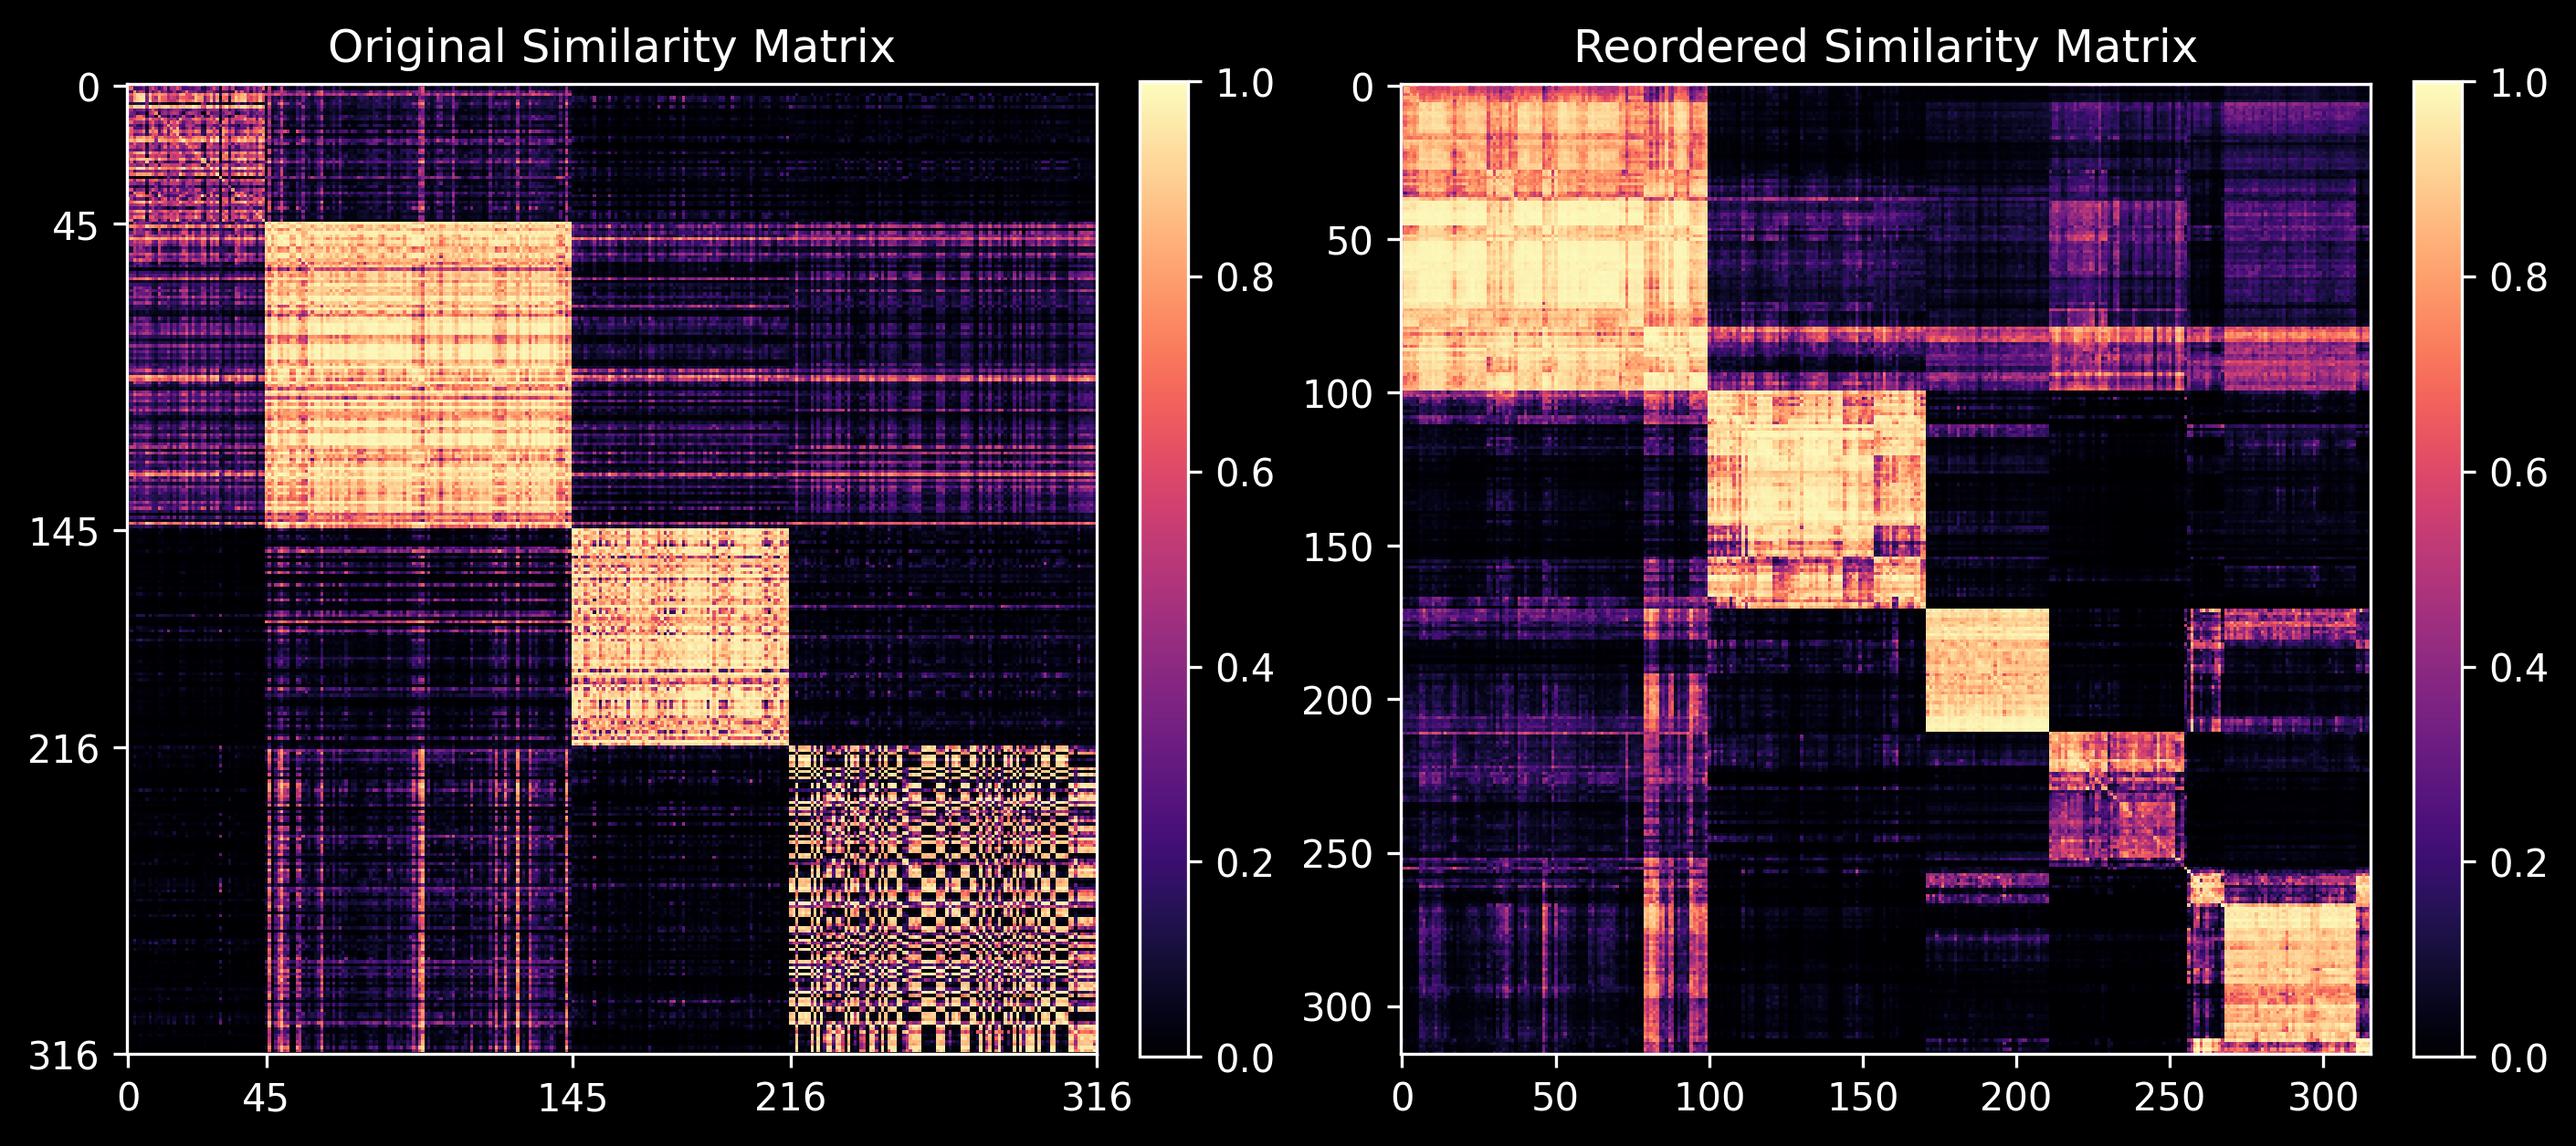
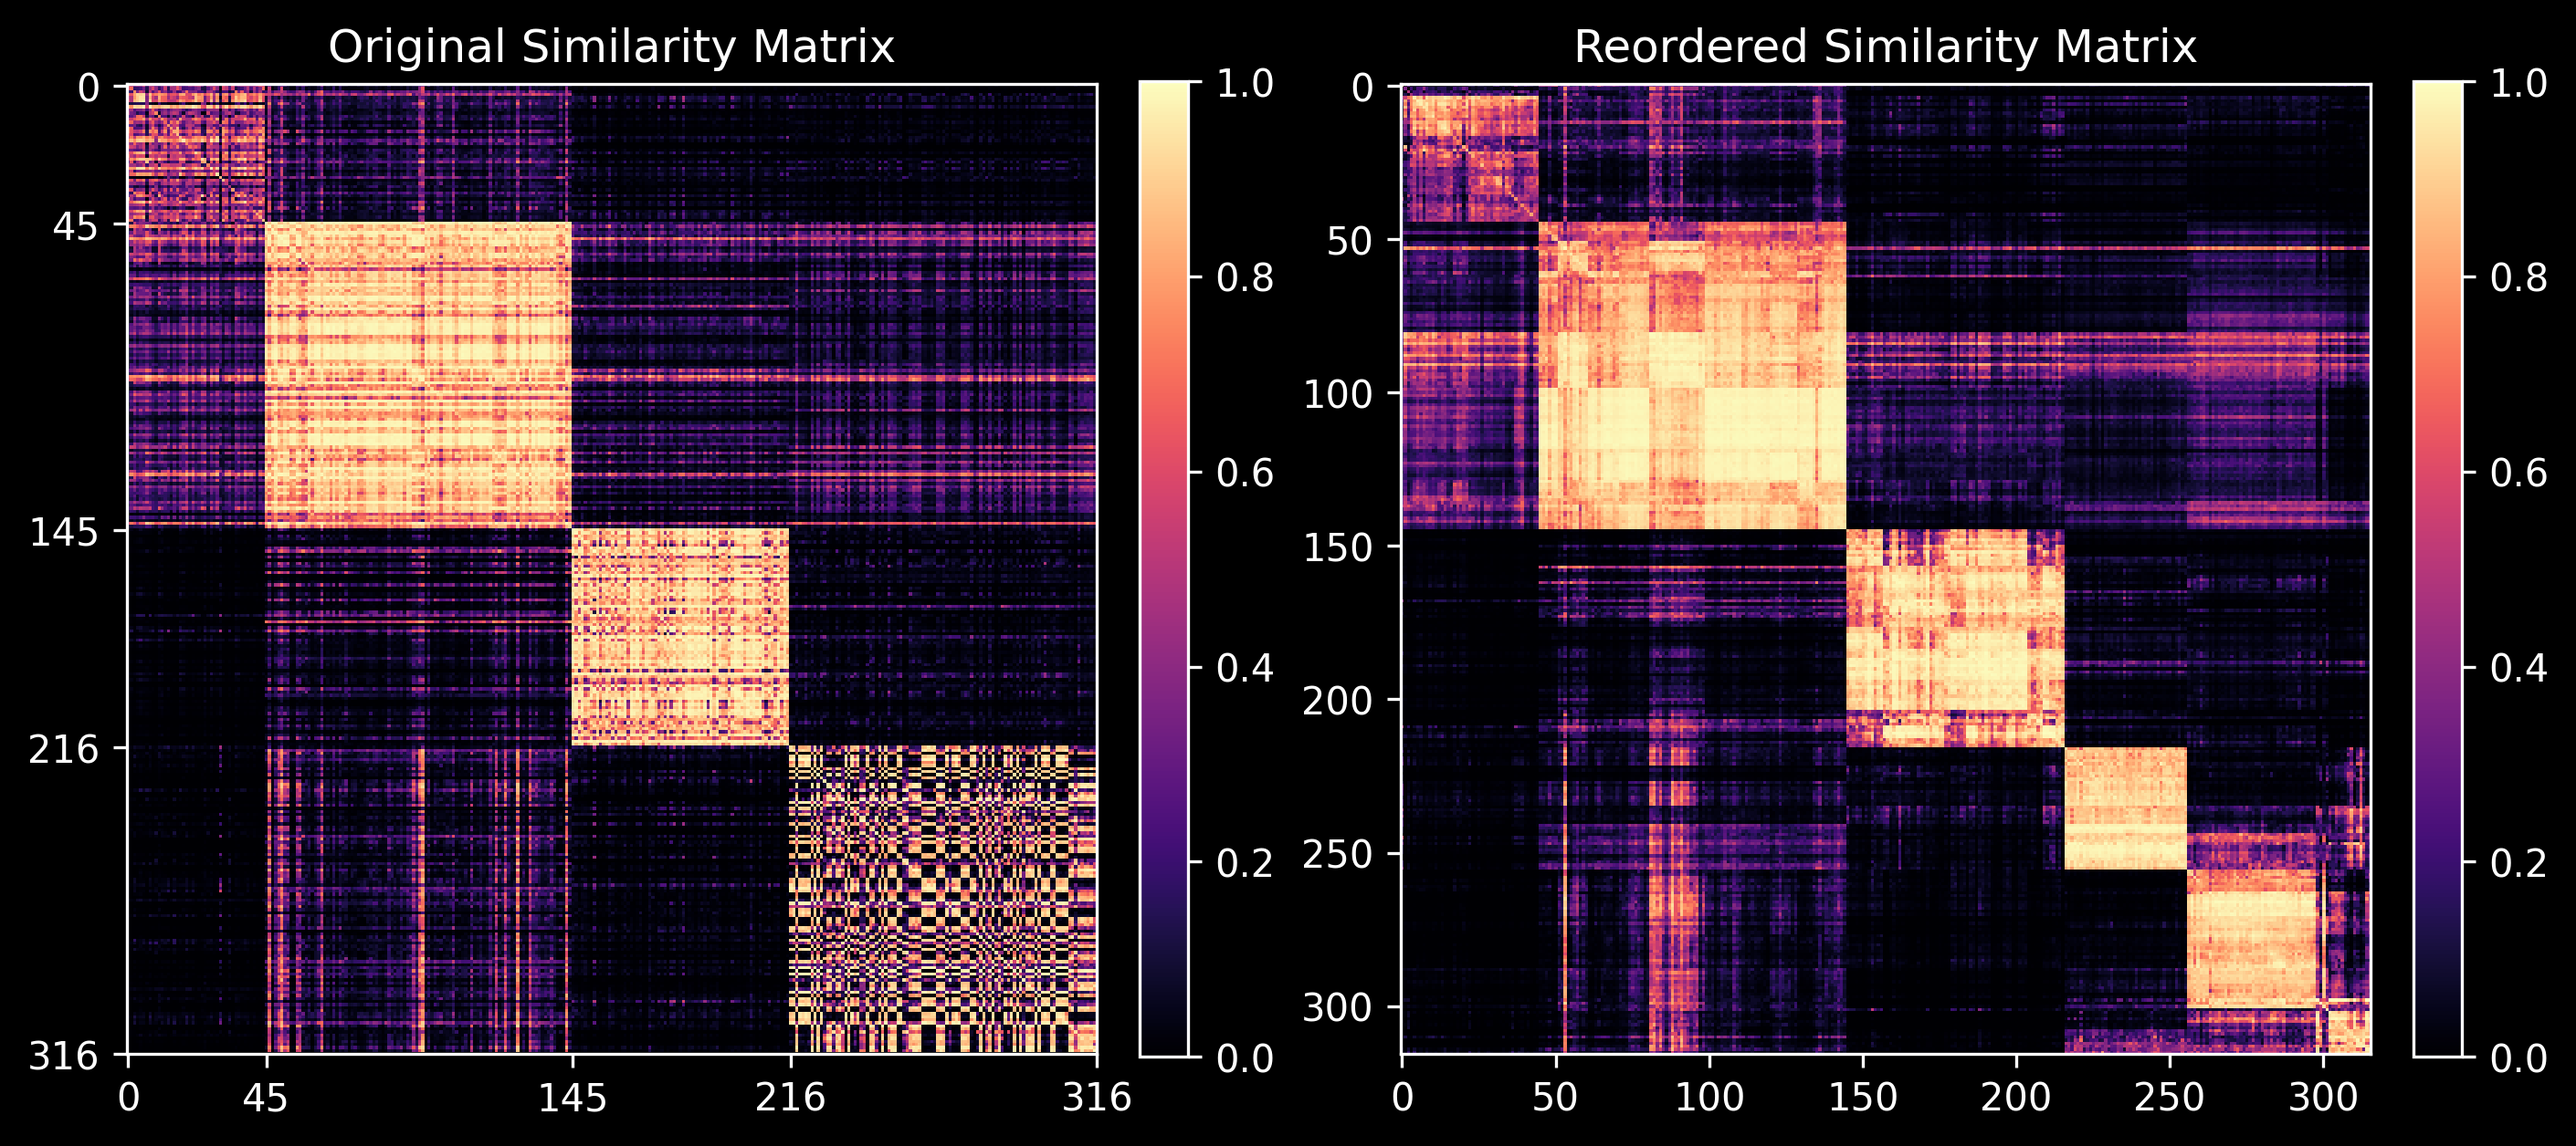
similarity_matrix修改为根据每一个脑区重新排序

Changed region(s): [[0.5303, 0.0621, 0.9358, 0.9315]]

diff --git a/similarity_matrix/similarity_matrix_reorder.py b/similarity_matrix/similarity_matrix_reorder.py
@@ -9,18 +9,24 @@ import os
 
 folder_path = '/cluster/home/ming/Project_N/nrn_mapping_CNN/similarity_matrix/'
 
-#load csv
+# 全部資料
 similarity = pd.read_csv(os.path.join(folder_path, 'FTmodel_predict.csv'))
+
+# 建构总数据表
+df = pd.DataFrame()
 
 # 构建字典，将fc_id映射到唯一的数字
 # 讀預設順序
 lpu_lst = ['ALLN','PN','KC','FB']
 fc_id_lst, lpu_num = [], []
-for order in lpu_lst:
-    fc_id_lst.append(pd.read_csv(os.path.join(folder_path, order+'.txt'), header=None, names=['fc_id']))
+for lpu in lpu_lst:
+    fc_id_lst.append(pd.read_csv(os.path.join(folder_path, lpu+'.txt'), header=None, names=['fc_id']))
     lpu_num.append(len(fc_id_lst[-1]))
 fc_ids = pd.concat(fc_id_lst, ignore_index=True)
 fc_id2index = {fc_id: index for index, fc_id in enumerate(fc_ids['fc_id'])}
+
+df['fc_id'] = fc_ids['fc_id']
+df['index'] = df['fc_id'].map(fc_id2index)
 
 # 過濾掉不在預設順序的
 similarity = similarity[similarity['fc_id'].isin(fc_ids['fc_id'])]
@@ -75,8 +81,12 @@ plt.figure(figsize=(10, 7))
 plt.imshow(similarity_matrix, cmap='magma')
 plt.colorbar(fraction=0.046, pad=0.04)
 # plt.title(f'Similarity Matrix (MSE: {mse_model:.2f}, MAE: {mae_model:.2f}, Frobenius Norm: {frobenius_model:.2f})')
-plt.xticks([45,145,216,316])
-plt.yticks([45,145,216,316])
+axis_sep = []
+for i in lpu_num:
+    axis_sep.append(i+axis_sep[-1] if axis_sep else i)
+# axis_sep=[45,145,216,316]
+plt.xticks(axis_sep)
+plt.yticks(axis_sep)
 plt.savefig('/cluster/home/ming/Project_N/nrn_mapping_CNN/similarity_matrix/similarity_matrix_single.png', dpi=300, bbox_inches='tight')
 plt.show()
 
@@ -86,18 +96,52 @@ def reorder_matrix(matrix, fc_id_lst):
 
     # 根据层次聚类的结果生成排序顺序
     dendrogram = sch.dendrogram(linkage_matrix, no_plot=True)
-    order = dendrogram['leaves']
+    lpu = dendrogram['leaves']
 
 
     # 生成新的fc_id2index字典
-    reordered_fc_id2index = {fc_id_lst[i]: idx for idx, i in enumerate(order)}
+    reordered_fc_id2index = {fc_id_lst[i]: idx for idx, i in enumerate(lpu)}
 
     # 使用相同的顺序对行和列进行排序
-    reordered_matrix = matrix[order, :]
-    reordered_matrix = reordered_matrix[:, order]
+    reordered_matrix = matrix[lpu, :]
+    reordered_matrix = reordered_matrix[:, lpu]
     return reordered_matrix, reordered_fc_id2index
 
-reordered_matrix, reordered_fc_id2index = reorder_matrix(similarity_matrix, fc_ids['fc_id'].tolist())
+# # 直接对完整的矩阵进行重排序
+# reordered_matrix, reordered_fc_id2index = reorder_matrix(similarity_matrix, fc_ids['fc_id'].tolist())
+# df['reordered_index'] = df['fc_id'].map(reordered_fc_id2index)
+
+# 分别对每个脑区进行重排序
+lpu_matrix_lst = [] # 分离每个脑区部分的矩阵
+idx=0
+for num in lpu_num:
+    lpu_matrix_lst.append(similarity_matrix[idx:idx+num, idx:idx+num])
+    idx += num
+# 排序
+reordered_matrix_lst, reordered_fc_id2index_lst = [], []
+for i, lpu_matrix in enumerate(lpu_matrix_lst):
+    reordered_matrix, reordered_fc_id2index = reorder_matrix(lpu_matrix, fc_id_lst[i]['fc_id'].tolist())
+    reordered_matrix_lst.append(reordered_matrix)
+    reordered_fc_id2index_lst.append(reordered_fc_id2index)
+
+# 合并 fc_id2index
+reordered_fc_id2index = {}
+# 合并时需要考虑reordered index 在整个矩阵中的位置需要加上脑区原本位置的偏移
+start_pos = [0]
+for num in lpu_num[:-1]:
+    start_pos.append(start_pos[-1] + num)
+for i, reordered_index in enumerate(reordered_fc_id2index_lst):
+    reordered_fc_id2index.update({fc_id: idx+start_pos[i] for fc_id, idx in reordered_index.items()})
+
+# 将 reordered_fc_id2index key换成原始矩阵位置
+reordered_idx2fc_idx = {v : fc_id2index[k] for k, v in reordered_fc_id2index.items()}
+df['reordered_index'] = df['index'].map(reordered_idx2fc_idx)
+
+# 重新排序整个矩阵
+reordered_idx = list(reordered_idx2fc_idx.values())
+reordered_matrix = similarity_matrix.copy()
+reordered_matrix = reordered_matrix[reordered_idx, :]
+reordered_matrix = reordered_matrix[:, reordered_idx]
 
 # 可视化原始相似度矩阵
 fig, (ax1, ax2) = plt.subplots(1, 2, figsize=(11, 5))
@@ -117,8 +161,20 @@ fig.colorbar(cax2, ax=ax2, fraction=0.046, pad=0.04)
 plt.savefig('/cluster/home/ming/Project_N/nrn_mapping_CNN/similarity_matrix/similarity_matrix_compare.png', dpi=300, bbox_inches='tight')
 plt.show()
 
+'''
+1、对其顺序(FB)画重排序之前之后对比的矩阵
+2、对NBLAST的矩阵也按照同样的顺序画出来
+3、在这个排列顺序上呈现原始的相似度分数
+4、同樣的順序用binary化的方式呈現
+5、畫MAE隨threshold變化的分佈圖
+假設groundtruth是四類，按照這個計算的MAE差不多，但是我們能夠分出更細的分類
+6、找ALLN和PN個一個神經，在NBLAST中分數很高，但是在我們的模型中分數很低
+7、加上FB分成不同小類的神經3D圖，找有代表性的NBLAST無法區別但是我們可以（我們這邊分數很低但是NBLAST分數很高）
+'''
+
 
 # %%    重排序之後 原本人類標註的四大類是否分散？是否有更多有意義的結構
+# 分腦區資料
 alln = pd.read_csv(os.path.join(folder_path, 'ALLN.txt'), header=None, names=['fc_id'])
 pn = pd.read_csv(os.path.join(folder_path, 'PN.txt'), header=None, names=['fc_id'])
 kc = pd.read_csv(os.path.join(folder_path, 'KC.txt'), header=None, names=['fc_id'])
@@ -135,6 +191,29 @@ alln_matrix = location_matrix(alln['fc_id'].tolist(), reordered_fc_id2index, mat
 pn_matrix = location_matrix(pn['fc_id'].tolist(), reordered_fc_id2index, matrix_size)
 kc_matrix = location_matrix(kc['fc_id'].tolist(), reordered_fc_id2index, matrix_size)
 fb_matrix = location_matrix(fb['fc_id'].tolist(), reordered_fc_id2index, matrix_size)
+
+# 找出FB matrix中1的位置
+fb_idx = np.where(fb_matrix == 1)
+fb_idx = np.unique(fb_idx[0])
+print('FB:', fb_idx)
+# 将连在一起的fb_idx对应的fc_id分类到一个list
+# 遍历fb_idx，如果fb_idx[i] - fb_idx[i-1] == 1，说明是连续的，否则添加新的一组
+fb_idx_lst = []
+new_lst = [fb_idx[0]]
+for i in range(1, len(fb_idx)):
+    if fb_idx[i] - fb_idx[i-1] == 1:
+        new_lst.append(fb_idx[i])
+    else:
+        fb_idx_lst.append(new_lst)
+        new_lst = [fb_idx[i]]
+fb_idx_lst.append(new_lst)
+
+# 找到对应的fc_id
+fb_fc_id_lst = []
+for lst in fb_idx_lst:
+    # 从reordered_fc_id2index中找到对应的fc_id
+    fc_id_sub_lst = [k for k, v in reordered_fc_id2index.items() if v in lst]
+    fb_fc_id_lst.append(fc_id_sub_lst)
 
 fig, axes = plt.subplots(2, 2, figsize=(11, 11))
 (ax1, ax2), (ax3, ax4) = axes
@@ -232,10 +311,12 @@ plot_distribution(similarity_matrix, 'Model Score Distribution', save=True)
 def binarize(matrix, threshold):
     return (matrix > threshold).astype(int)
 
-threshold = 0.5
+threshold_nblast = 0.20
+threshold_model = 0.55
 
-nblast_binary = binarize(nblast_matrix, 0.65)
-model_binary = binarize(similarity_matrix, threshold)
+nblast_binary = binarize(nblast_matrix, threshold_nblast)
+# model_binary = binarize(similarity_matrix, threshold_model)
+model_binary = binarize(reordered_matrix, threshold_model)
 
 # mse_nblast_binary = np.mean((nblast_binary - ideal_matrix) ** 2)
 # mse_model_binary = np.mean((model_binary - ideal_matrix)**2)
@@ -248,27 +329,27 @@ print('MAE Model Binary:', mae_model_binary)
 
 fig, (ax1, ax2) = plt.subplots(1, 2, figsize=(11, 5))
 cax1 = ax1.imshow(nblast_binary, cmap='magma')
-ax1.set_title(f'NBLAST (Binary, thr={threshold:.2f}, MAE={mae_nblast_binary:.2f})')
+ax1.set_title(f'NBLAST (Binary, thr={threshold_nblast:.2f}, MAE={mae_nblast_binary:.2f})')
 ax1.set_xticks([0,45,145,216,316])
 ax1.set_yticks([0,45,145,216,316])
 fig.colorbar(cax1, ax=ax1, fraction=0.046, pad=0.04)
 
 # 重新排序后的相似度矩阵
 cax2 = ax2.imshow(model_binary, cmap='magma')
-ax2.set_title(f'Model (binary, thr={threshold:.2f}, MAE={mae_model_binary:.2f})')
+ax2.set_title(f'Model (Binary, thr={threshold_model:.2f}, MAE={mae_model_binary:.2f})')
 ax2.set_xticks([0,45,145,216,316])
 ax2.set_yticks([0,45,145,216,316])
 fig.colorbar(cax2, ax=ax2, fraction=0.046, pad=0.04)
 plt.savefig('/cluster/home/ming/Project_N/nrn_mapping_CNN/similarity_matrix/similarity_matrix_binary.png', dpi=300, bbox_inches='tight')
 plt.show()
 # %% 如果只考慮ideal matrix範圍中的MSE
-def located_mse(matrix, ideal_matrix):
-    mse_matrix = (matrix - ideal_matrix) **2
-    mse_lst = mse_matrix[ideal_matrix == 1].tolist()
-    return np.mean(mse_lst)
+# def located_mse(matrix, ideal_matrix):
+#     mse_matrix = (matrix - ideal_matrix) **2
+#     mse_lst = mse_matrix[ideal_matrix == 1].tolist()
+#     return np.mean(mse_lst)
 
-nblast_mse = located_mse(nblast_matrix, ideal_matrix)
-model_mse = located_mse(similarity_matrix, ideal_matrix)
+# nblast_mse = located_mse(nblast_matrix, ideal_matrix)
+# model_mse = located_mse(similarity_matrix, ideal_matrix)
 
 def plot_thr_mae_distribution(matrix, ideal_matrix, save=False):
     # 計算各threshold下的MAE
